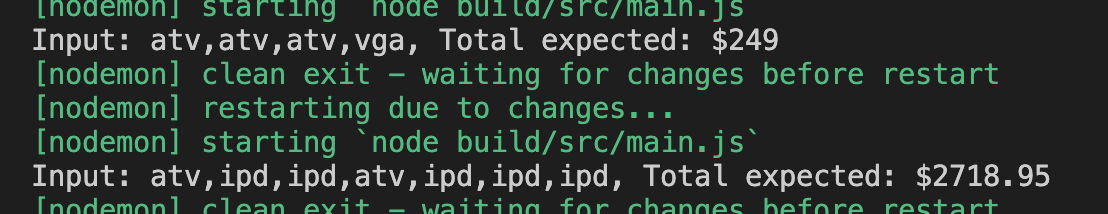
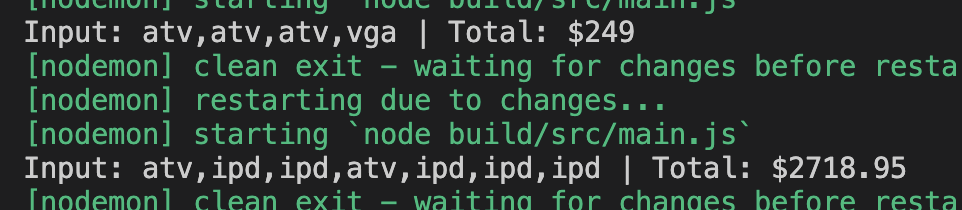
Added result screenshot to readme

Changed region(s): [[0.0, 0.0, 0.9979, 1.0]]

diff --git a/src/main.ts b/src/main.ts
@@ -37,7 +37,7 @@ const output = (inputs) => {
   inputs.map((item) => {
     co.scan(item);
   });
-  console.log(`Input: ${inputs}, Total expected: $${co.total()}`);
+  console.log(`Input: ${inputs} | Total: $${co.total()}`);
   co.clear();
 };
 
